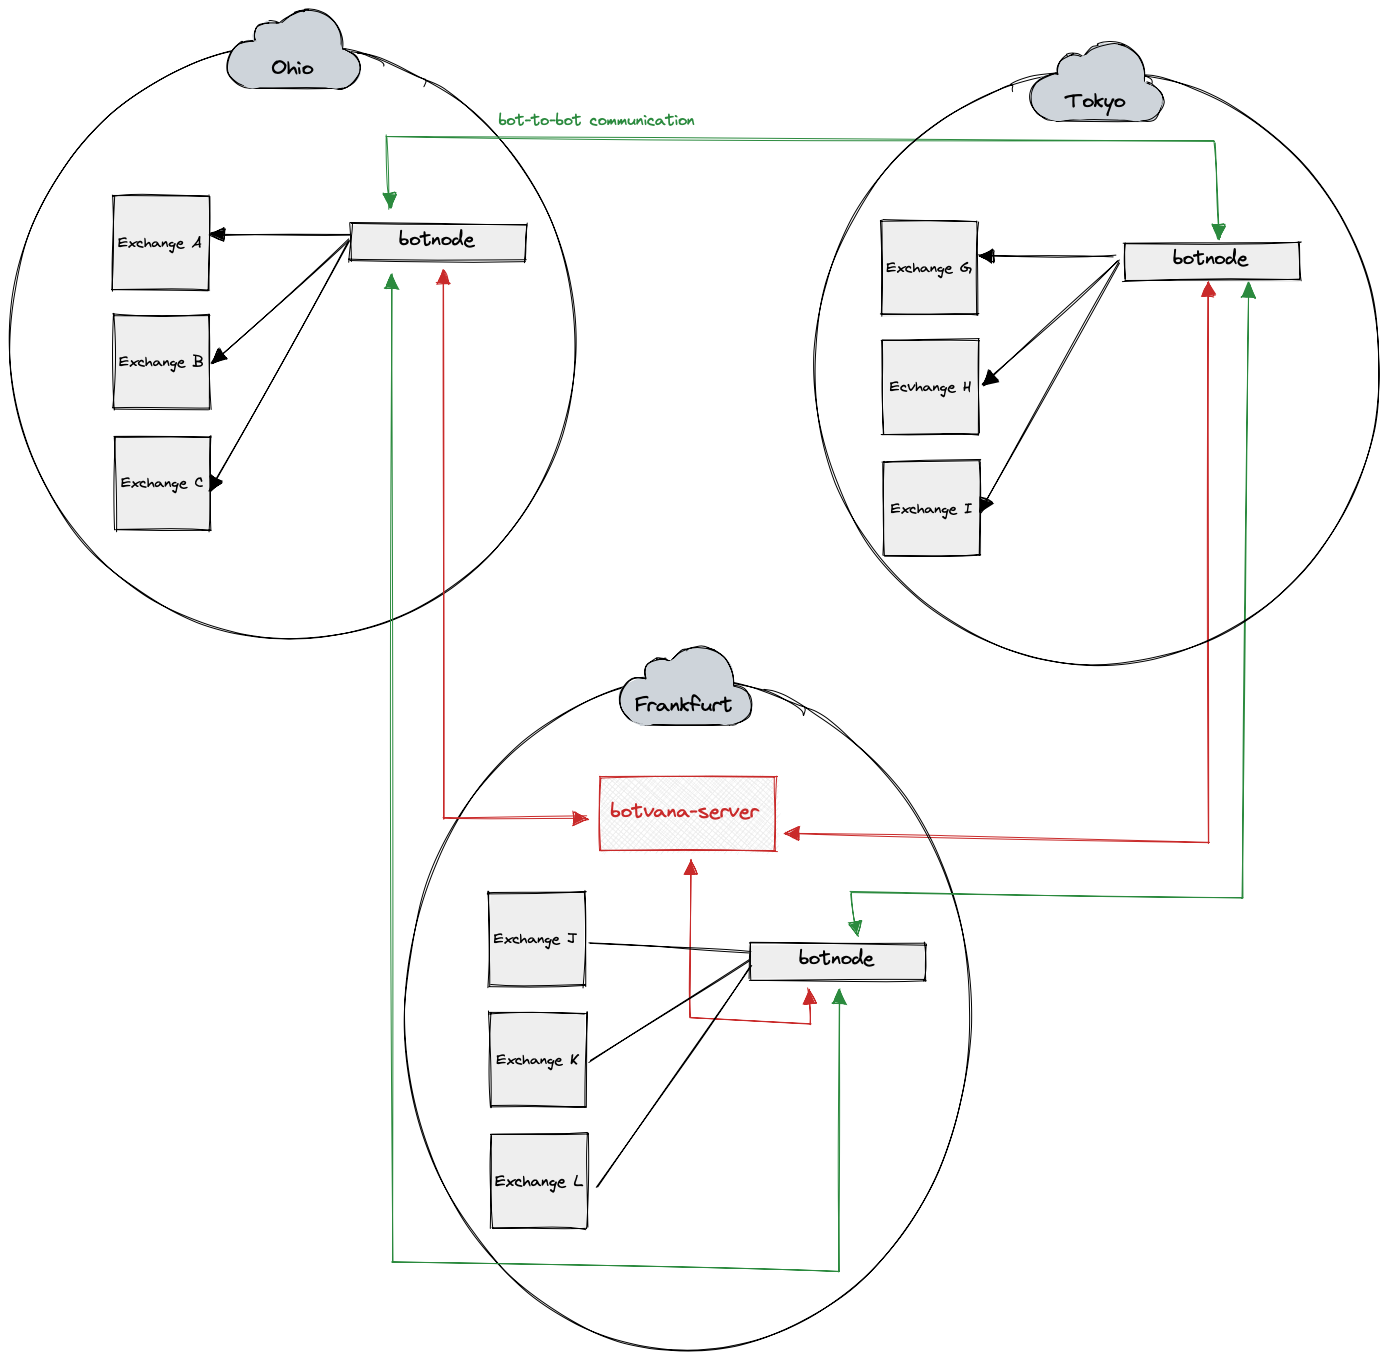
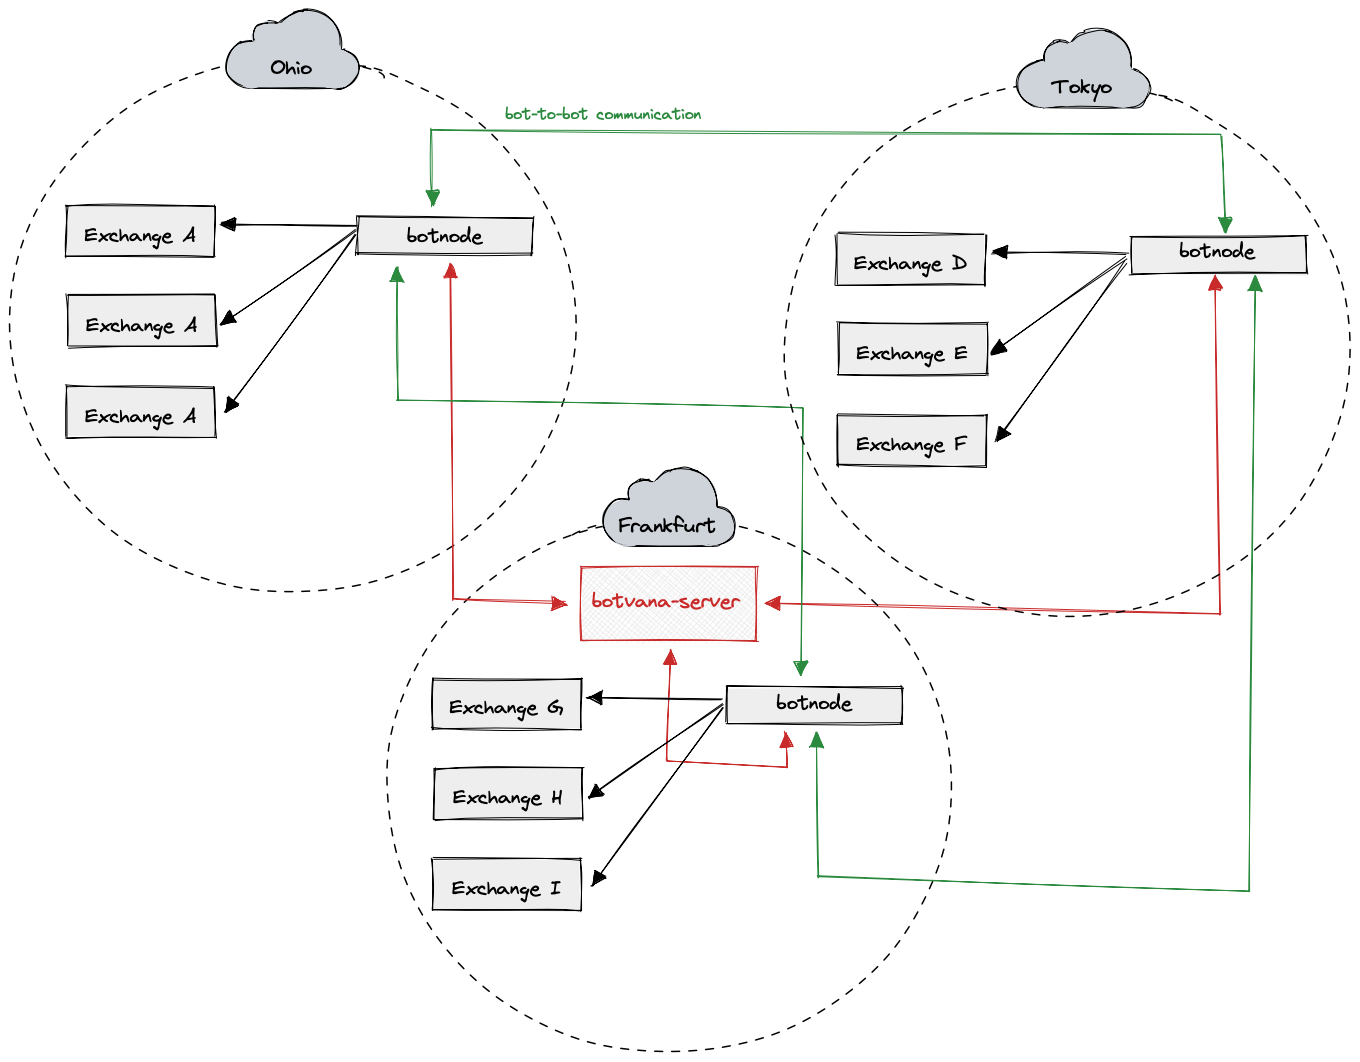
Add deployment architecture diagram

diff --git a/README.md b/README.md
@@ -34,9 +34,13 @@ Botvana is split into these components:
 Currently, in the early phase of the project, the supported exchanges are FTX and
 Binance.
 
+### Deployment architecture
+
+![deployment architecture](docs/deployment_architecture.png)
+
 ### botnode architecture
 
-![The botnode architecture](docs/botnode_architecture.png)
+![botnode architecture](docs/botnode_architecture.png)
 
 Botnode uses thread-per-core architecture where each thread is pinned to exactly
 one logical CPU core. Each CPU core runs a different engine with a custom event loop.
